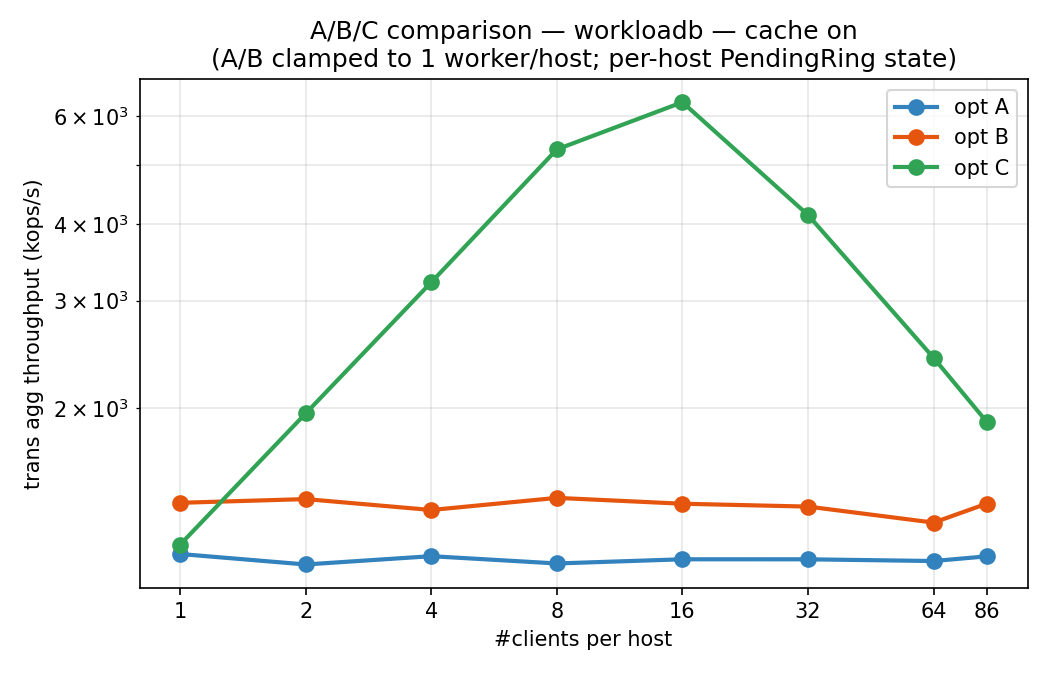
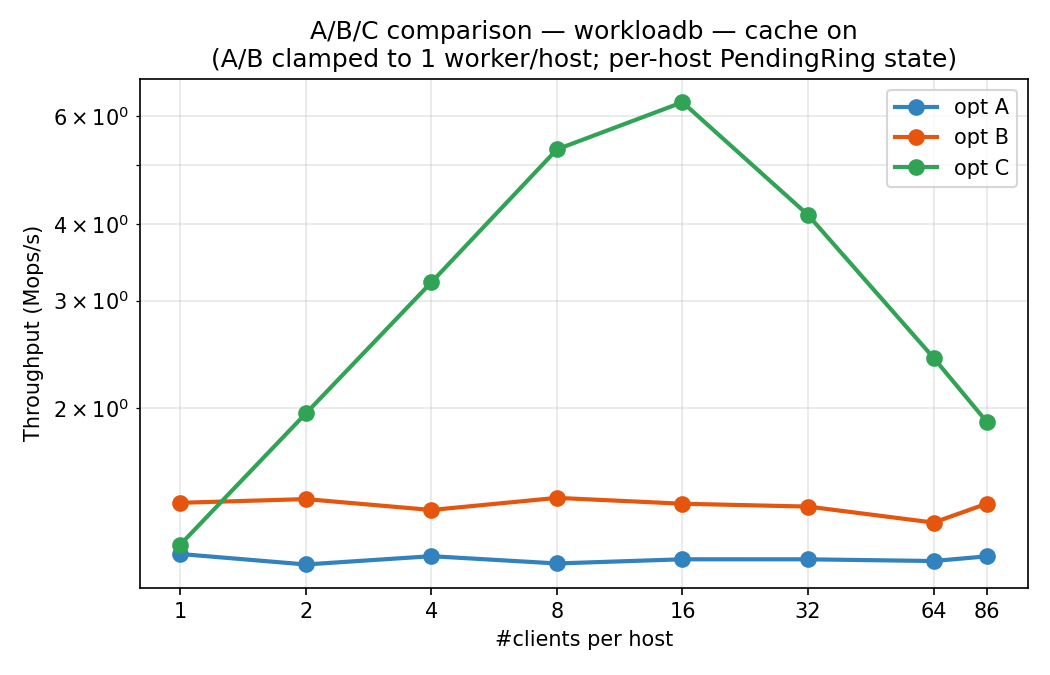
[plot] extra/abc_compare_*.png y-axis now Mops/s (was kops/s)

diff --git a/docs/plot_scaling_extra.py b/docs/plot_scaling_extra.py
@@ -57,7 +57,7 @@ def main():
     wls = sorted({k[1] for k in runs})
     Ts_all = sorted({k[2] for k in runs})
 
-    # 1. A/B/C throughput comparison per workload (cache=on)
+    # 1. A/B/C throughput comparison per workload (cache=on) — Mops/s.
     for wl in wls:
         fig, ax = plt.subplots(figsize=(7, 4.5))
         for opt in opts:
@@ -65,7 +65,7 @@ def main():
             for T in Ts_all:
                 k = (opt, wl, T, 1)
                 if k in runs:
-                    Ts.append(T); thpts.append(runs[k]["thpt"] / 1e3)
+                    Ts.append(T); thpts.append(runs[k]["thpt"] / 1e6)
             if Ts:
                 ax.plot(Ts, thpts, "o-", lw=2, markersize=7,
                         color=colors[opt], label=f"opt {opt}")
@@ -74,7 +74,7 @@ def main():
         ax.set_xticks([1,2,4,8,16,32,64,86])
         ax.set_xticklabels(["1","2","4","8","16","32","64","86"])
         ax.set_xlabel("#clients per host")
-        ax.set_ylabel("trans agg throughput (kops/s)")
+        ax.set_ylabel("Throughput (Mops/s)")
         ax.set_title(f"A/B/C comparison — {wl} — cache on\n"
                      "(A/B clamped to 1 worker/host; per-host PendingRing state)")
         ax.legend(); ax.grid(True, alpha=0.3, which="both")
